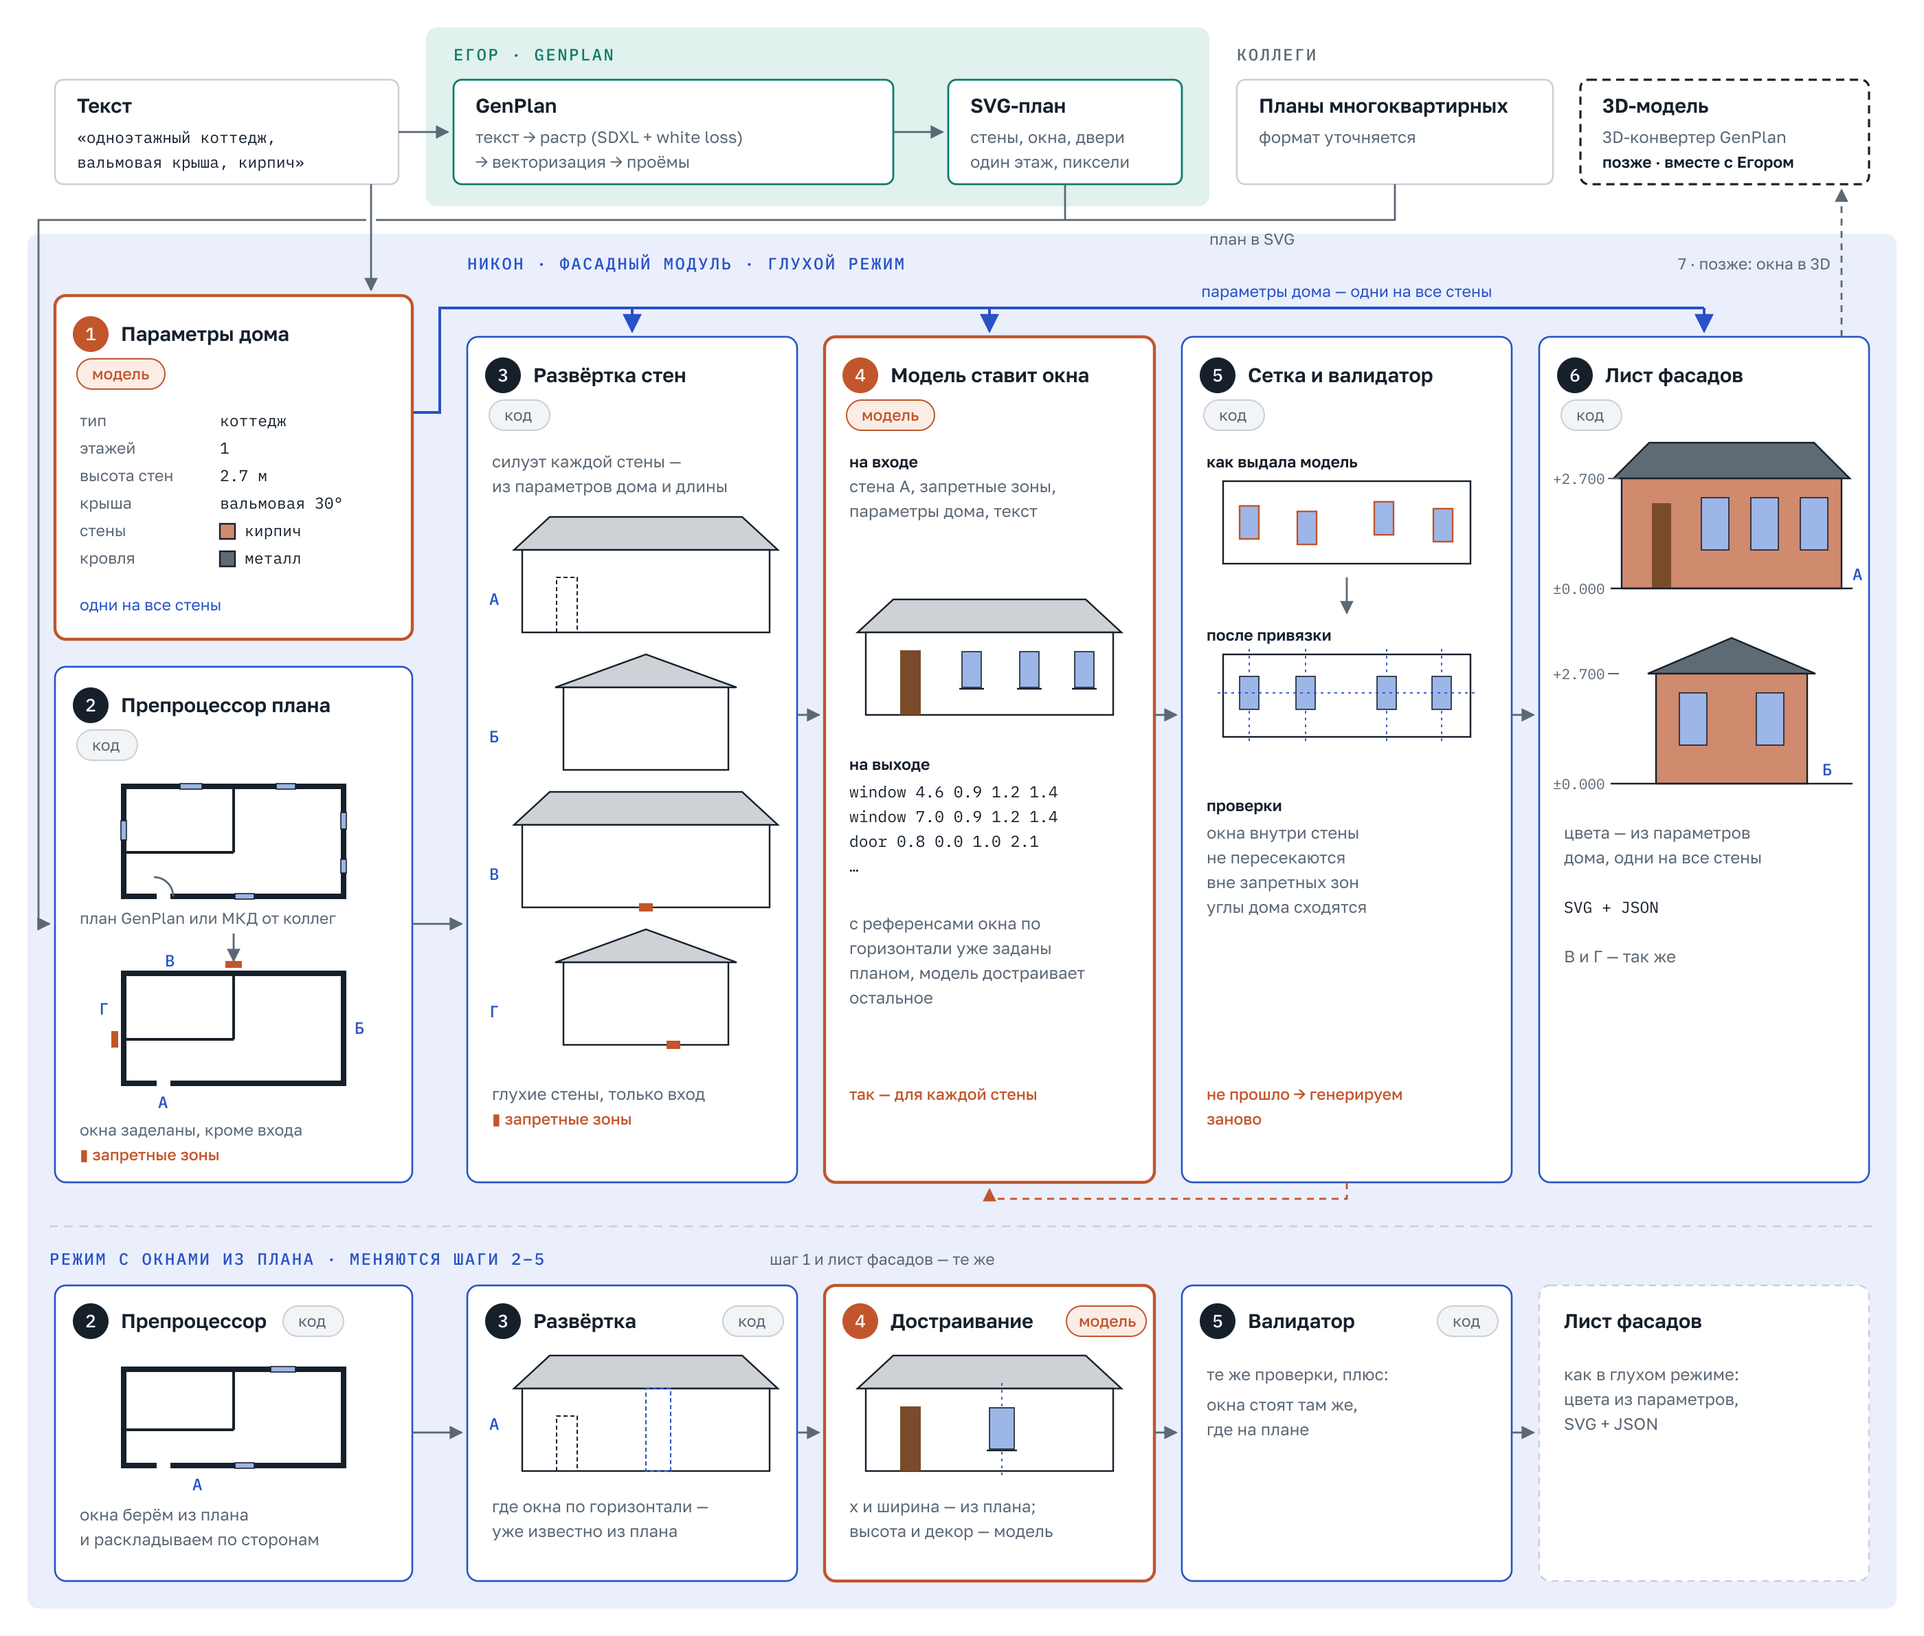
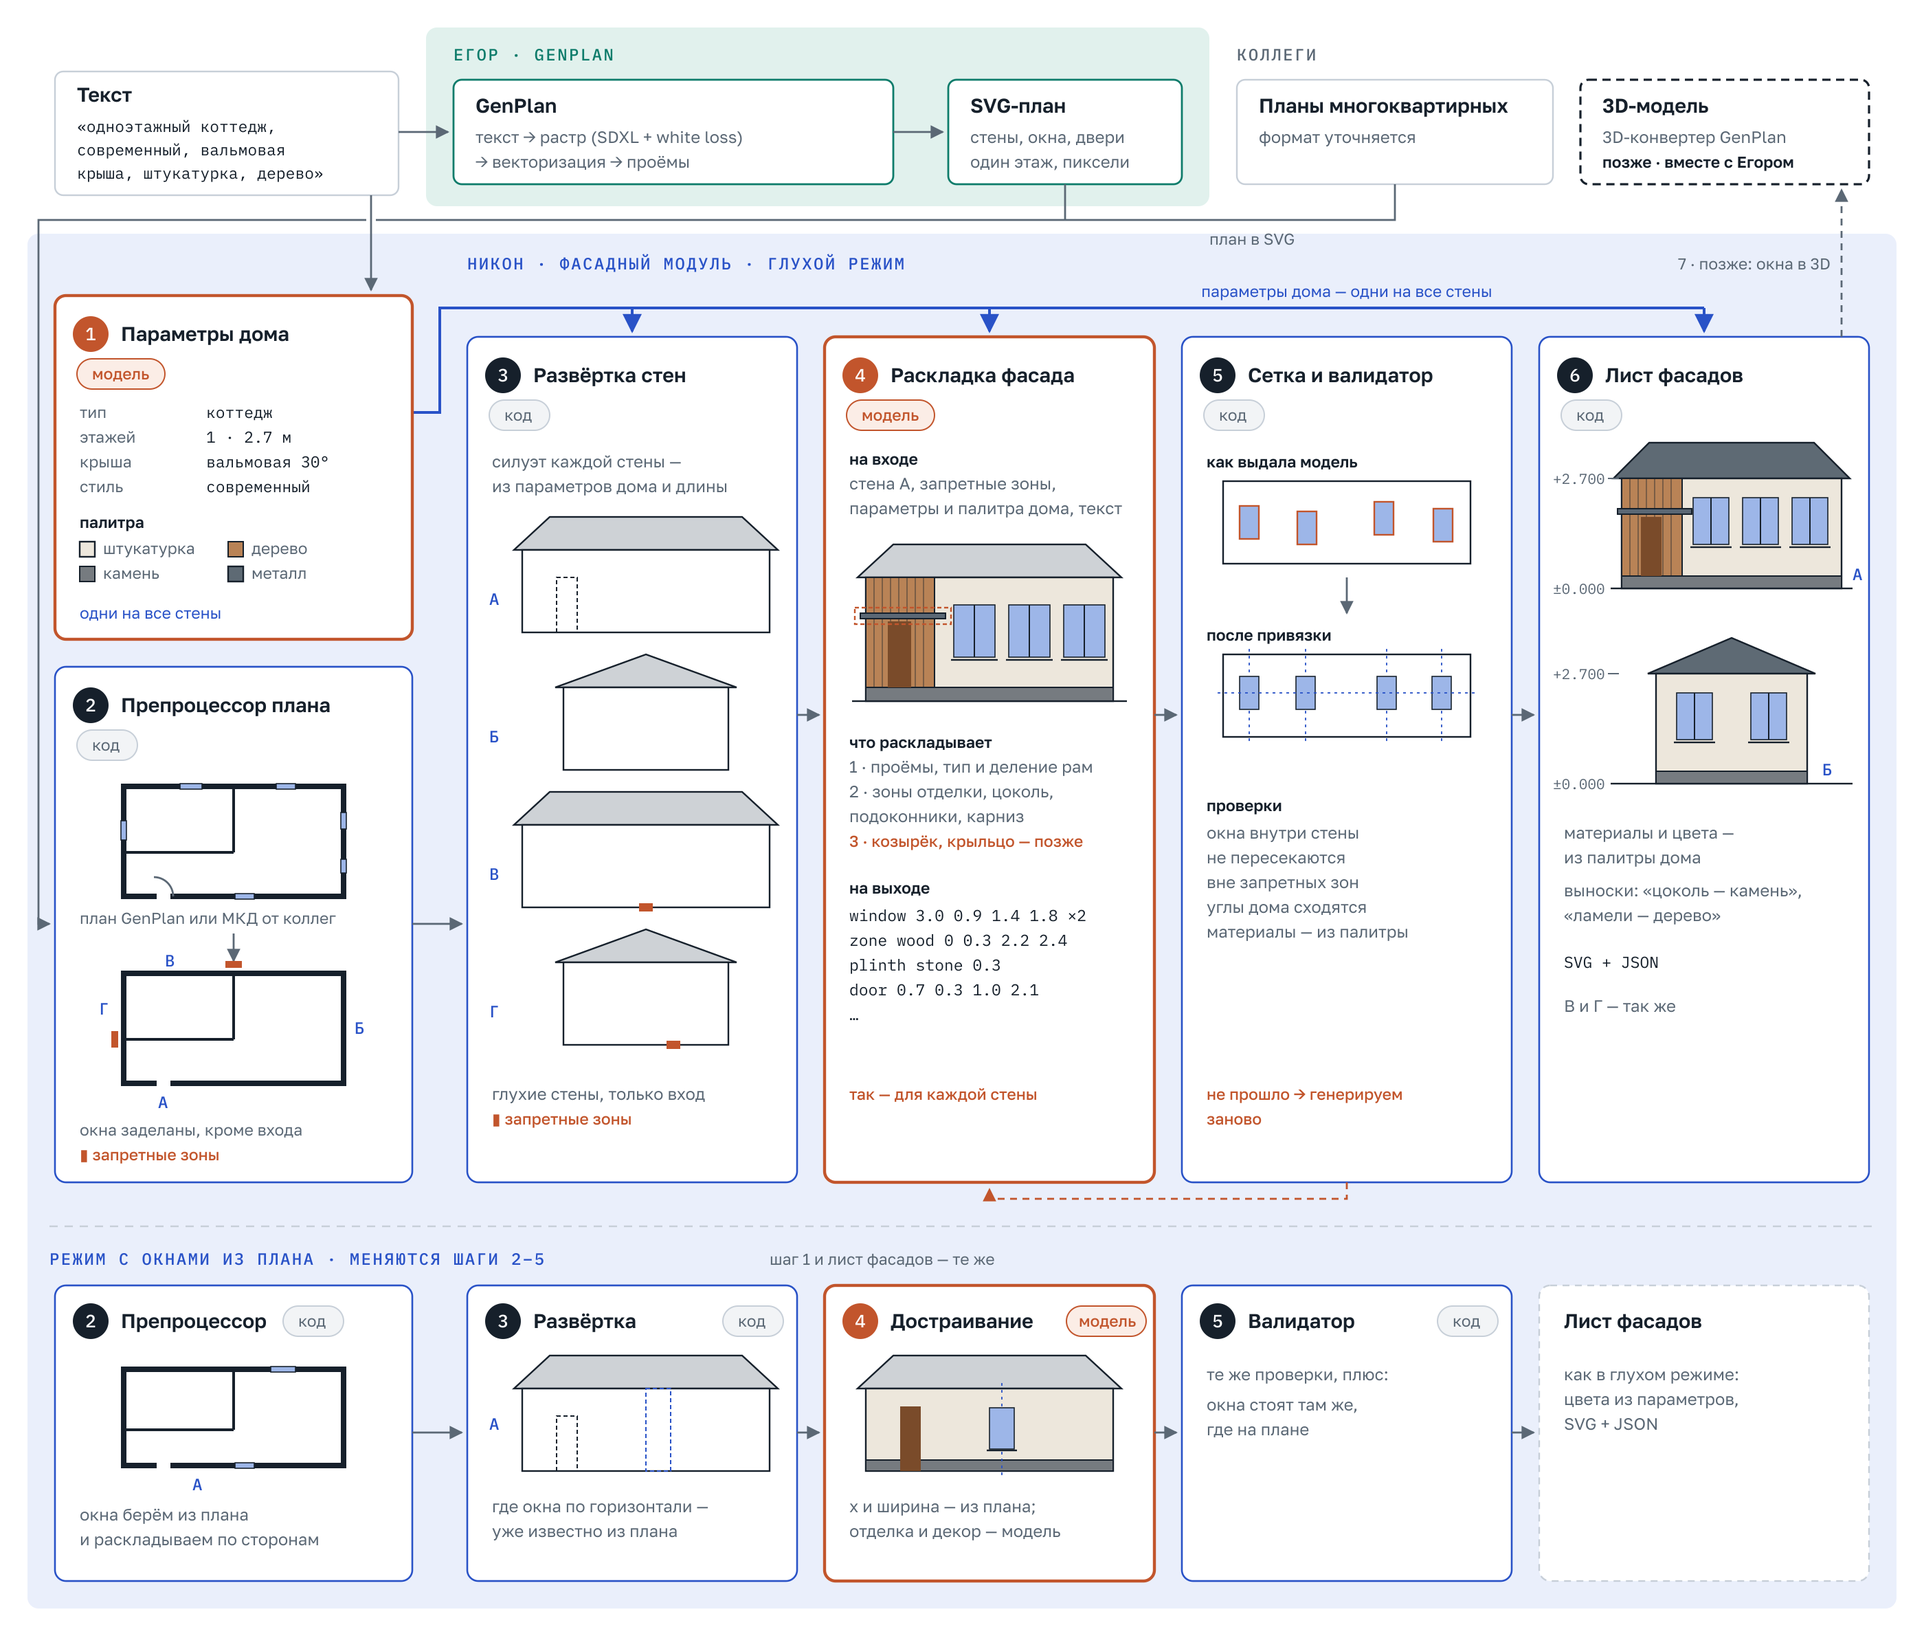
Модель раскладывает весь фасад: уровни состава, палитра, зоны отделки
- specs/facade.md: HouseSpec.style и палитра, MaterialZone, варианты проёмов,
  состав фасада по уровням 1–3 (цель 1–2) — подтвердил хозяин;
- specs/generation.md: модель выбирает материал зоны из палитры дома;
- decisions.md: решение с причиной по эскизному проекту ИЖС;
- схема: шаг 4 «Раскладка фасада» с зонами отделки, цоколем, делением рам;
  лист фасадов — с отделкой; в CLAUDE.md блок обновлён.

diff --git a/specs/facade.md b/specs/facade.md
@@ -24,7 +24,8 @@
 | `plinth_m` | высота цоколя |
 | `eaves_m` | отметка карниза |
 | `roof` | `Roof` |
-| `materials` | материал и цвет по классу элемента: стена, цоколь, кровля, рамы, двери |
+| `style` | стиль из текста: современный, скандинавский, шале, классика… *(дельта 28.09)* |
+| `materials` | палитра дома: какие материалы и цвета есть (штукатурка, дерево, камень, металл…); зоны и элементы ссылаются на неё *(дельта 28.09)* |
 
 ### Roof
 
@@ -43,6 +44,7 @@
 |---|---|
 | `side` | ссылка на сторону |
 | `elements` | элементы — `Element` |
+| `zones` | зоны отделки — `MaterialZone` *(дельта 28.09)* |
 | `silhouette` | многоугольник силуэта стены с крышей; вычисляется из `HouseSpec` и контура, не генерируется |
 
 ### Element
@@ -53,7 +55,18 @@
 | `x_m`, `y_m`, `w_m`, `h_m` | осевой прямоугольник в метрах; `y` от отметки нуля вверх |
 | `floor` | номер этажа |
 | `parent` | вложенность: подоконник и ставни — у окна |
-| `material` | переопределение материала из `HouseSpec`, если нужно |
+| `material` | переопределение материала из палитры `HouseSpec`, если нужно |
+| `variant` | для проёмов: обычное, панорамное в пол, угловое, ленточное; деление рамы на створки *(дельта 28.09)* |
+
+### MaterialZone
+
+Участок стены с одним материалом: цоколь, основная отделка, акцентная зона.
+
+| Поле | Значение |
+|---|---|
+| `shape` | многоугольник в координатах стены, метры |
+| `material` | ссылка на материал из палитры `HouseSpec` |
+| `role` | `plinth` \| `main` \| `accent` \| `band` (пояс, карниз) |
 
 ### FacadeSheet
 
@@ -75,8 +88,9 @@
    `DECISION 2026-09-28` — главная идея согласованности, вынесена научрукам.
 3. Крыша и фронтон не прямоугольники: силуэт каждой стороны вычисляется
    геометрически из `Roof` и контура плана (фронтон или скат).
-4. «В цвете» на первом этапе — цвет и материал элемента из фиксированной
-   библиотеки (кирпич, штукатурка, сайдинг, дерево, металлочерепица и т. п.);
+4. «В цвете» на первом этапе — цвет и материал из фиксированной
+   библиотеки; модель решает, **где** какая зона и какой материал из палитры
+   дома, но не придумывает новые цвета *(дельта 28.09)*. Библиотека (кирпич, штукатурка, сайдинг, дерево, металлочерепица и т. п.);
    генерация текстур — позже *(хозяин 28.09)*.
 5. SVG: каждый элемент — `<rect>` или `<polygon>` с атрибутом класса
    (`data-cls`) и материала; координаты — в метрах в едином масштабе листа.
@@ -86,6 +100,14 @@
 7. JSON содержит ровно то же, что SVG; SVG получается из JSON детерминированно.
 8. Совместимость с CAD — через экспорт SVG в DXF готовой библиотекой;
    своего конвертера не пишем. `DECISION 2026-09-28`.
+
+9. **Состав фасада по уровням** *(подтвердил хозяин 28.09)*:
+   1) проёмы с типом (обычное, панорамное, угловое…) и делением рам, двери,
+      гаражные ворота;
+   2) зоны отделки, цоколь, подоконники, наличники, карниз, пояса;
+   3) выступающие элементы: крыльцо, козырёк, балкон, терраса, навес.
+   Цель работы — уровни 1–2, уровень 3 — расширение. Крыша — в `HouseSpec`,
+   её силуэт считает код.
 
 ## Критерии приёмки
 
@@ -101,3 +123,6 @@
 - Нужна ли иерархия глубже «элемент → родитель»: группы окон, повторяющиеся этажи
   как концепт (в Facades-3D есть `FloorConcept`).
 - Какие классы добавить для коттеджей сверх CMP — по первым размеченным домам.
+- Список типов окон и вариантов деления рам; состав библиотеки материалов.
+- Где брать разметку зон отделки для уровня 2: в CMP есть `sill`, `molding`,
+  `cornice`, `deco`, но зон материалов нет — рендеры коттеджей размечать самим?

diff --git a/CLAUDE.md b/CLAUDE.md
@@ -32,14 +32,15 @@
   3D-конвертер GenPlan → 3D-модель   [позже, делаем ВМЕСТЕ]
 
 НИКОН · фасадный модуль — 7 шагов: модель на шагах 1 и 4, остальное код
-  1. текст → параметры дома (тип, этажи, высота, крыша, материалы)
+  1. текст → параметры дома (тип, этажи, высота, крыша, стиль, палитра)
      — одни на все стены                                   [модель]
   2. SVG-план → препроцессор: стороны, заделанные разрывы
      (глухой режим, кроме входа), запретные зоны, метры      [код]
   3. развёртка: силуэт каждой стены из параметров и длины    [код]
-  4. модель на каждую стену ставит окна и элементы;
-     вход: стена + запретные зоны + параметры + текст;
-     выход: «класс + прямоугольник»                          [модель]
+  4. модель раскладывает каждую стену: проёмы с типом и делением рам,
+     зоны отделки из палитры дома, цоколь, подоконники, карниз
+     (крыльцо, козырёк — уровень 3, позже);
+     вход: стена + запретные зоны + параметры + текст        [модель]
      (с референсами окна по горизонтали уже заданы планом)
   5. привязка к сетке этажей и осей + валидатор;
      не прошло → генерируем заново                           [код]

diff --git a/specs/generation.md b/specs/generation.md
@@ -41,9 +41,9 @@
    этажей и вертикальным осям, соседние окна получают одинаковые координаты.
 8. Все фасады дома генерируются при одном `HouseSpec`; согласованность углов
    обеспечивается им, а не моделью (facade.md, правило 2).
-   Модель цвет не выбирает: материалы и цвета берутся из `HouseSpec` при
-   отрисовке, иначе соседние стены могли бы выйти разного цвета
-   *(дельта 28.09, обсуждение с хозяином)*.
+   Модель не придумывает цвета: палитра материалов — в `HouseSpec`, одна на дом.
+   Модель раскладывает стену — проёмы, зоны отделки, декор — и для каждой зоны
+   выбирает материал из палитры (facade.md, правила 4 и 9) *(дельта 28.09)*.
 9. Каждый запуск сохраняет рядом с результатом `.json` с моделью, `seed`,
    параметрами и датой (CLAUDE.md).
 

diff --git a/specs/README.md b/specs/README.md
@@ -15,7 +15,7 @@
 | [glossary.md](glossary.md) | термины работы | — |
 | [task.md](task.md) | постановка: вход, выход, типы домов, режимы, границы, что сдаём по ТЗ | Request |
 | [plan-input.md](plan-input.md) | вход-план: формат GenPlan, препроцессор, стороны дома | Plan, Side, Opening, ForbiddenZone |
-| [facade.md](facade.md) | представление фасада и формат выхода | HouseSpec, Roof, SideFacade, Element, FacadeSheet |
+| [facade.md](facade.md) | представление фасада и формат выхода | HouseSpec, Roof, SideFacade, Element, MaterialZone, FacadeSheet |
 | [generation.md](generation.md) | метод: разбор текста, генератор, привязка к сетке | — |
 | [data.md](data.md) | данные для обучения и теста, синтез описаний | Sample |
 | [evaluation.md](evaluation.md) | валидатор, метрики, базовые подходы, ablation | Violation |
